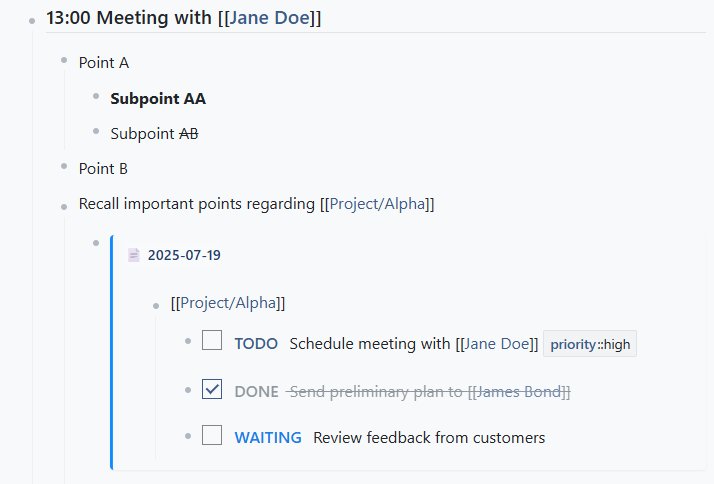
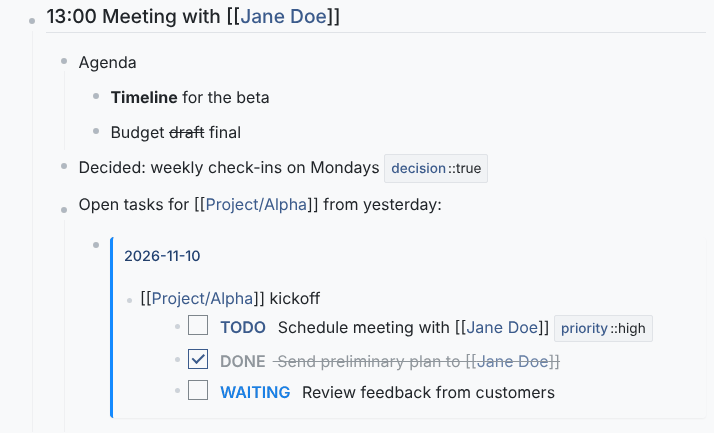
Docs site: new screenshots of the current app, homepage, FAQ and guide updates
- Screenshots retaken from a demo notebook (outline, meeting note with an
  embedded note, tasks, project page with a live query, link suggestions,
  page dialog, kanban), quantised to keep them small
- Homepage and overview describe Logseq-style editing, undo, export/import
- FAQ: exporting, importing from Logseq, how notd differs from Logseq, undo,
  upload types
- Quick start: Enter/Backspace/undo, link suggestions, page menu
- Tasks: status reflects the current keyword; NLR removed

Claude-Session: https://claude.ai/code/session_019GiYMBtaCRrJBmskF8DXoH

Changed region(s): [[0.1541, 0.5704, 0.9244, 0.9307], [0.0616, 0.1201, 0.6779, 0.5404], [0.0308, 0.0, 0.493, 0.06]]

diff --git a/docs/layouts/index.html b/docs/layouts/index.html
@@ -19,14 +19,14 @@
           <img alt="The notd outline with a journal page" src="{{ "/images/frontpage.png" | relURL }}">
         </figure>
         <h3>Minimal</h3>
-        <p>An outline, a journal page for every day, and Markdown. Every bullet can be nested, collapsed, dragged and linked.</p>
+        <p>An outline, a journal page for every day, and Markdown. Enter, Tab, Backspace and Ctrl+Z work the way an outliner should, and a page of thousands of notes opens in under a second.</p>
       </div>
       <div class="col col-4 item">
         <figure>
           <img alt="Markdown, properties and tasks in notes" src="{{ "/images/markdown.png" | relURL }}">
         </figure>
         <h3>Organised</h3>
-        <p>Tasks, backlinks, transclusion, properties, namespaces, attachments, SQL queries over your notes, and per-page encryption.</p>
+        <p>Links and backlinks, tasks, properties, embedded notes, live queries over your notes, namespaces, attachments, favourites and password-locked pages.</p>
       </div>
       <div class="col col-4 item">
         <figure>
@@ -43,7 +43,7 @@
       </div>
       <div class="col col-4 item">
         <h4>Yours, offline</h4>
-        <p>Notes are plain text in one SQLite file on your machine. Nothing is loaded from the internet, and edits made offline are sent when the server is back.</p>
+        <p>Notes are plain text in one SQLite file on your machine, and export to Markdown files in Logseq's layout at any time. Nothing is loaded from the internet; edits made offline are sent when the server is back.</p>
       </div>
       <div class="col col-4 item">
         <h4>Free</h4>

diff --git a/docs/content/faq/_index.md b/docs/content/faq/_index.md
@@ -10,6 +10,9 @@ In one SQLite file, `db/database.sqlite`, plus the `uploads/` folder for attachm
 ## Does it need an internet connection?
 No. Nothing is loaded from the internet, and edits made while the server is unreachable are kept in the browser and sent later. The only exception is the optional Excalidraw extension.
 
+## Can I undo a mistake?
+Yes. `Ctrl + Z` undoes typing first and then outline changes (new, moved, indented and deleted notes), up to 200 steps while the page is open. `Ctrl + Shift + Z` redoes.
+
 ## Is there a login?
 No. notd is made for one person on their own machine. If you host it where others can reach it, put it behind HTTP authentication or a VPN.
 
@@ -20,7 +23,13 @@ Several devices can use the same server; each loads the current state when a pag
 Copy the folder, or copy `db/database.sqlite`, `uploads/` and `config.local.php` into a fresh download.
 
 ## Can I get my notes out?
-Yes. The database is ordinary SQLite with a documented schema (`db/schema.sql`), and the [API]({{< relref "../docs/api-reference/_index.md" >}}) returns everything as JSON.
+Yes, in three ways: `php tools/export.php <folder>` writes every page as a Markdown file (Logseq's layout, attachments included); the ⚙ next to a page title has **Export** for a single page; and the database is ordinary SQLite with a documented schema (`db/schema.sql`). The [API]({{< relref "../docs/api-reference/_index.md" >}}) returns everything as JSON too.
+
+## Can I bring my notes from Logseq?
+Yes: `php tools/import.php ~/logseq/pages ~/logseq/journals`. Pages, journals, nesting and `key:: value` properties come across. Logseq-only features (block references by UUID, `#tags`, queries in Logseq's syntax) are kept as text.
+
+## How is notd different from Logseq?
+notd keeps the outliner, the daily journal, links, backlinks, tasks and properties, and leaves out the rest. In exchange it has no build step, no desktop runtime and no sync service: it is PHP and SQLite, runs on any web host or a laptop, opens large pages quickly, and its whole code base can be read in an afternoon.
 
 ## How are properties stored?
 You write them in the text, for example `{priority::high}`. The server keeps a searchable index of them, but the text stays the source of truth.
@@ -32,7 +41,7 @@ You write them in the text, for example `{priority::high}`. The server keeps a s
 Use [`append_to_page.php`]({{< relref "../docs/api-reference/append-to-page.md" >}}) to add notes, and [`ops.php`]({{< relref "../docs/api-reference/ops.md" >}}) to create, edit, move or delete them in one atomic request.
 
 ## What are the upload limits?
-10 MB per file; common image, document and text formats are accepted.
+10 MB per file. Images, PDF, text, office documents, zip, audio and video are accepted; HTML, SVG and scripts are refused because a browser could run code in them.
 
-## I forgot the password of an encrypted page.
+## I forgot the password of a locked page.
 The content cannot be recovered. Encryption happens in the browser and the server never sees the password.

diff --git a/docs/content/docs/overview/_index.md b/docs/content/docs/overview/_index.md
@@ -7,13 +7,14 @@ weight: 10
 
 ## What it does
 
-- **Outline editing.** Every note is a bullet that can be nested, collapsed, dragged and reordered. Notes are written in Markdown.
+- **Outline editing.** Every note is a bullet that can be nested, collapsed, dragged, reordered and zoomed into. Enter splits a note, Backspace joins it to the one above, and `Ctrl + Z` undoes. Notes are written in Markdown.
 - **Journal.** Each day has its own page; notd opens today's page by default.
 - **Links and backlinks.** `[[Page Name]]` links pages; every page shows what links to it.
 - **Tasks.** Start a note with `TODO`, `DOING`, `DONE`, ... and it becomes a task with a checkbox.
 - **Properties.** `{key::value}` anywhere in a note or page becomes searchable metadata.
 - **Queries and transclusion.** List notes with `SQL{...}`; embed a note elsewhere with `!{{note-id}}`.
-- **Attachments, templates, namespaces, favorites, per-page encryption.**
+- **Attachments, templates, namespaces, favorites, password-locked pages.**
+- **Print and export.** Print a page or save it as PDF; export a page or the whole notebook as Markdown files, and import Markdown, including folders written by Logseq.
 - **Extensions.** Kanban board, pomodoro timer, attachment dashboard, distraction-free editor and more.
 - **An HTTP API** that can do everything the interface can.
 
@@ -22,7 +23,7 @@ weight: 10
 notd is deliberately made of few, well-understood parts:
 
 - **PHP + SQLite on the server, plain JavaScript modules in the browser.** There is no build step, no package manager and no framework to keep up with. The few libraries it uses are stored in the repository.
-- **Your data is plain text** in a documented SQLite schema (unless you choose to encrypt a page). Any SQLite tool can read it.
+- **Your data is plain text** in a documented SQLite schema (unless you choose to lock a page). Any SQLite tool can read it, and `tools/export.php` turns it into Markdown files.
 - **Works offline.** Nothing is loaded from the internet. Edits made while the server is unreachable are kept in the browser and sent when it is back.
 - **Runs anywhere PHP runs**: a laptop (`php -S localhost:8000 router.php`), a NAS, a shared web host, or packaged as a desktop app with [phpdesktop](https://github.com/cztomczak/phpdesktop).
 

diff --git a/docs/content/docs/frontend-guide/frontend-quick-start.md b/docs/content/docs/frontend-guide/frontend-quick-start.md
@@ -17,17 +17,31 @@ notd opens on today's journal page.
 
 ![a first note](/images/my_first_note.png)
 
-Click a bullet (or the **+** below the last note) and type. Each bullet is a note.
+Click the text of a note (or the **+** below the last note) and type. Each bullet is a note, written in Markdown; it is shown formatted as soon as you leave it.
 
 | Key | Action |
 |---|---|
-| `Enter` | New note below |
+| `Enter` | New note below (in the middle of the text: split the note there) |
 | `Shift + Enter` | Line break inside the note |
 | `Tab` / `Shift + Tab` | Indent / outdent |
 | `Ctrl/Cmd + Enter` | New child note |
-| `Backspace` in an empty note | Delete it |
+| `Backspace` at the start | Join with the note above |
+| `Ctrl/Cmd + Z` | Undo |
+| `Escape` | Stop editing |
 
-Drag a bullet to move a note together with its children. Click the arrow next to a note with children to collapse it.
+Drag a bullet to move a note together with its children. Click the arrow next to a note with children to collapse it, and click the bullet itself to zoom into the note.
+
+## Link
+
+![Typing [[ suggests pages](/images/suggest.png)
+
+Type `[[` and a few letters: notd suggests existing pages, or offers to create a new one. Choose with the arrow keys and `Enter`. The page you link to lists your note in its backlinks.
+
+## The page menu
+
+![The page dialog](/images/page_dialog.png)
+
+Hover over the page title for the ☆ (add to favourites) and the ⚙. The ⚙ opens the page dialog: rename the page, edit its own text and properties, and export, print, lock or delete it.
 
 Everything is saved as you type. The indicator in the bottom-right corner shows the state; if the server cannot be reached, notd keeps your edits and sends them later.
 

diff --git a/docs/content/docs/frontend-guide/journal-tasks.md b/docs/content/docs/frontend-guide/journal-tasks.md
@@ -34,17 +34,17 @@ DOING Write documentation {assigned::john}
 WAITING Client approval for design
 ```
 
-Each task must be its own note. Tick the checkbox to mark a task `DONE`; untick it to return it to `TODO`. For other states, edit the keyword.
+Each task must be its own note. Tick the checkbox to mark a task `DONE`; untick it to return it to `TODO` (`Ctrl + Z` undoes either). For other states, edit the keyword.
 
 <div class="message focus" data-component="message">
-Every change of state is recorded as a <code>status</code> log property on the note, and completing a task records <code>done_at</code>. The history stays even when the keyword changes again.
+A task's <code>status</code> property is always its current keyword, so searches and queries see the task as it is now. The first time a task is marked done, <code>done_at</code> records when.
 </div>
 
-The list of keywords is the `TASK_STATES` setting. The interface also understands `NLR` (no longer required); add it to `TASK_STATES` if you want it indexed and shown on the kanban board.
+The list of keywords is the `TASK_STATES` setting.
 
 ### Organising tasks
 
-![](/images/task_page.png)
+![A project page with a query listing all open tasks](/images/task_page.png)
 
 Add properties to tasks and use them to slice your work:
 

diff --git a/docs/content/_index.md b/docs/content/_index.md
@@ -1,5 +1,5 @@
 +++
-description = "A small outliner for notes, journals and tasks. Plain PHP, plain JavaScript and one SQLite file that you own: no build step, no cloud, works offline."
+description = "A lightweight, long-lived alternative to Logseq: an outliner for notes, journals and tasks made of plain PHP, plain JavaScript and one SQLite file that you own. No build step, no cloud, works offline."
 title = "notd: a simple outliner"
 draft = false
 
